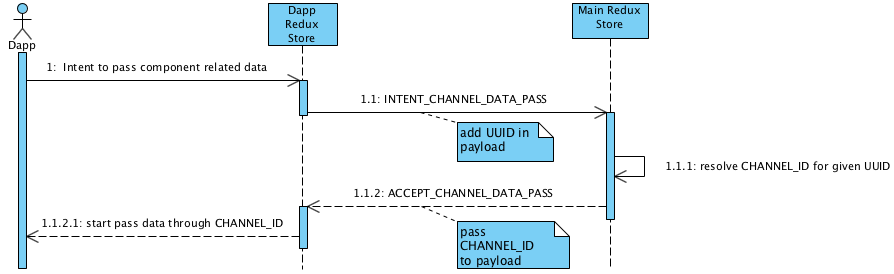
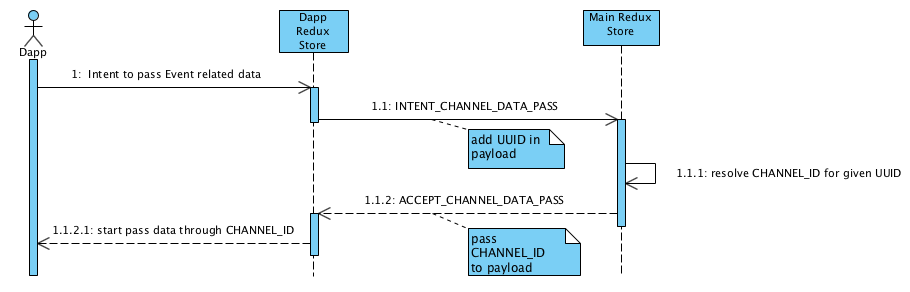
permissions & failure scenarios todos

diff --git a/docs/README.md b/docs/README.md
@@ -8,10 +8,15 @@
 - [Array library documentation](#array-library-documentation)
   - [array.dapp](#arraydapp)
   - [array.dapp.subscribe](#arraydappsubscribe)
-  - [array.Ipc](#arrayipccommunicator)
+  - [array.Ipc](#arrayipc)
+  - ... other components related array.[component].[method]
 
 # Architecture technical documentation
 
+<!-- 
+-   необходимо отразить в описании арх2.  если меняем пермишены на лету. в этом случае, если приложение запущено, то необходимо "догрузить" новые пермишены и соответственно каналы.
+– также не хватает фейловых сценариев для всех случаев взаимодействия
+ -->
 ## UUID target store resolver
 
 ![alt text](./diagrams/forwardToRendererWrapper.png?raw=true "forwardToRendererWrapper middleware mechanizm")
@@ -65,6 +70,12 @@ Sender dapp init communication with receiver dapp (`openChannelIntent` action). 
 -------------------------
 
 ## Events API protocol
+
+Events API protocol used in our architecture only to receive event signals. As a transport for event's data we use channels and [Component-channel resolver](#component-channel-resolver) mechanizm.
+
+As you remember all actions (without `scope: local` electron-redux flag) are firstly dispatched in main process store. Renderer process (dapp) init action `INIT_EVENT_SUBSCRIPTION` with specified in payload actions to subscribe. On the main process side we have variable `eventMap` to store map with subscribed actions.
+
+<!-- Add EVENT_ACCEPT ??? Failure logic -->
 
 ![alt text](./diagrams/eventsMechanizm.png?raw=true "Events mechanizm")
 
@@ -131,14 +142,16 @@ Each component will have a channel through which data will be sent. We use separ
 
 ```
 array
-|- dapp 
+|- dapp -|
+|        |- subscribe
+|
 |- Ipc
 |- LocalStorage -| _methods_
 |- Keychain -----| _methods_
 |- IpfsStorage --| _methods_
 |- OrbitDb ------| _methods_
 |- Network ------| _methods_
-
+|- ...other components
 ```
 
  other methods to work with components // todo orbitdb, bitshares, network, ipfs/p2p, keychain, localstorage  // subscribe
@@ -169,7 +182,7 @@ Returns:
 Emitted when the application is quitting.
 
 
-# array.dapp.subscribe (move to component Network)
+# array.dapp.subscribe 
 The `array.dapp.subscribe` function lets you subscribe to specific events your dapp depends on.
 
 ```
